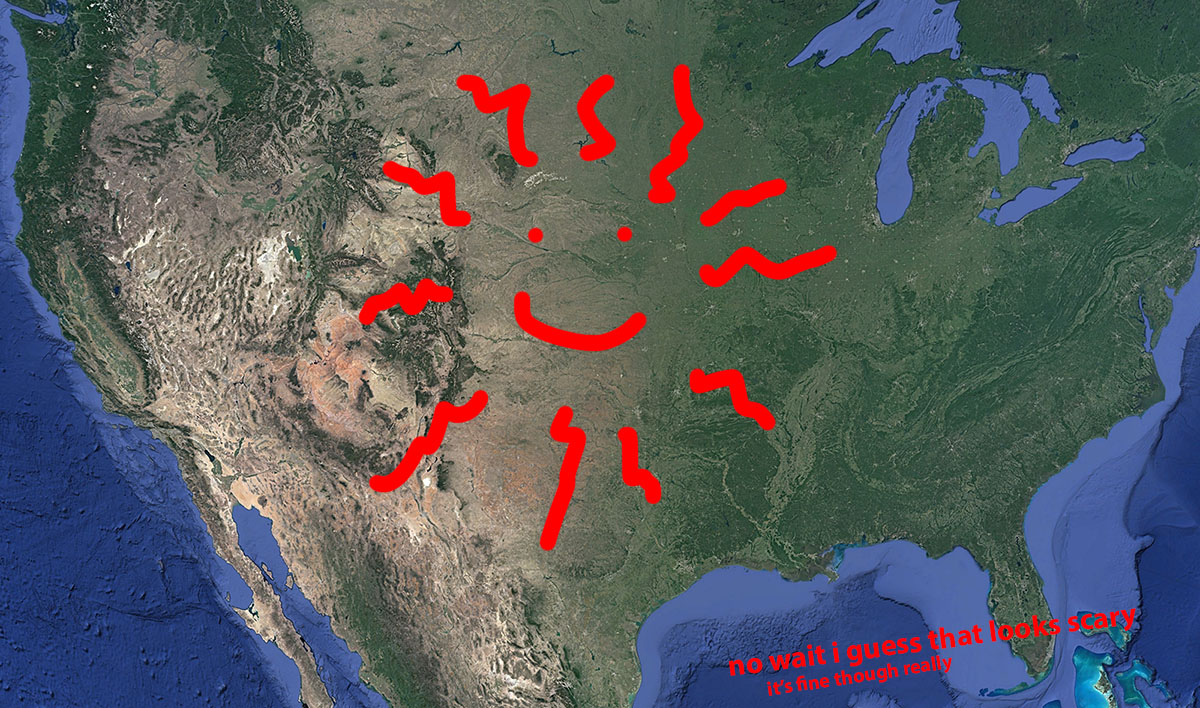
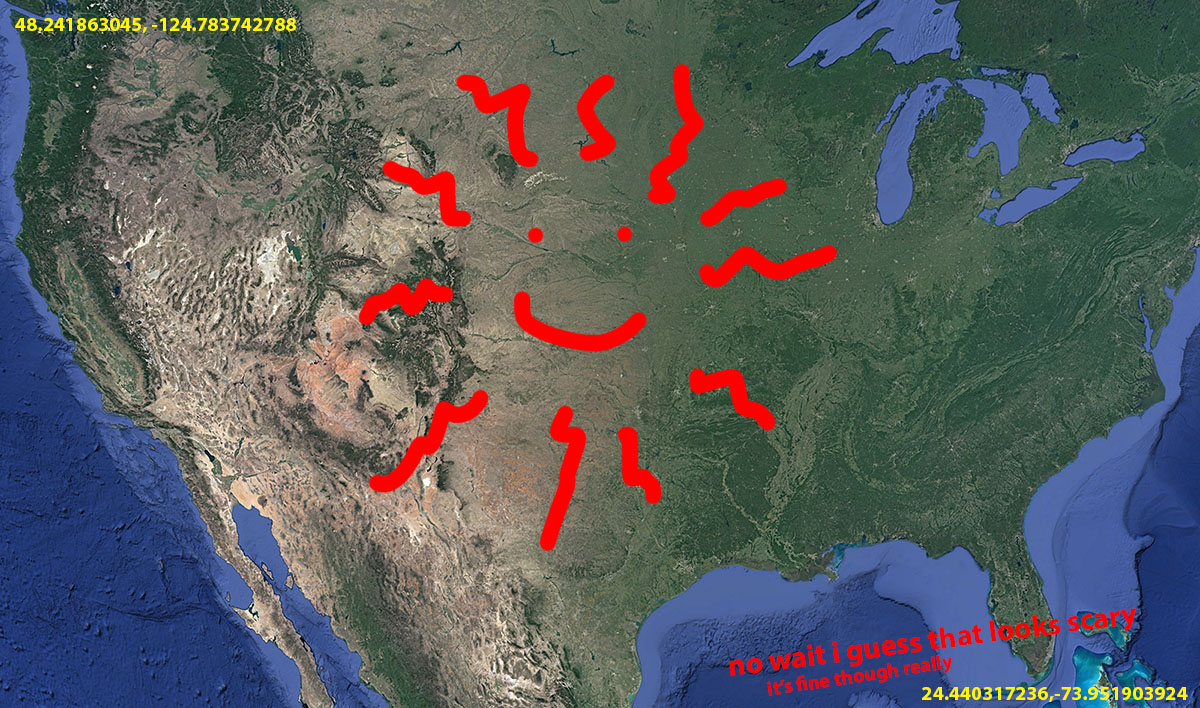
output image

Changed region(s): [[0.0, 0.0, 0.2467, 0.0621], [0.7708, 0.9633, 1.0, 0.9944]]

diff --git a/README.md b/README.md
@@ -165,4 +165,6 @@ In this case, your top left is `48.241863045, -124.783742788` and your bottom ri
 
 To turn the cropped image into something useful, go find the `.tif` you saved (remember when you picked to save it as a real file instead of a temporary file?), open it in literally any image editing software, and re-save it as a jpeg.
 
-**Done.**
+![](images/output-neat.jpg)
+
+> I just put the coordinates in there with Photoshop, that's not black magic
